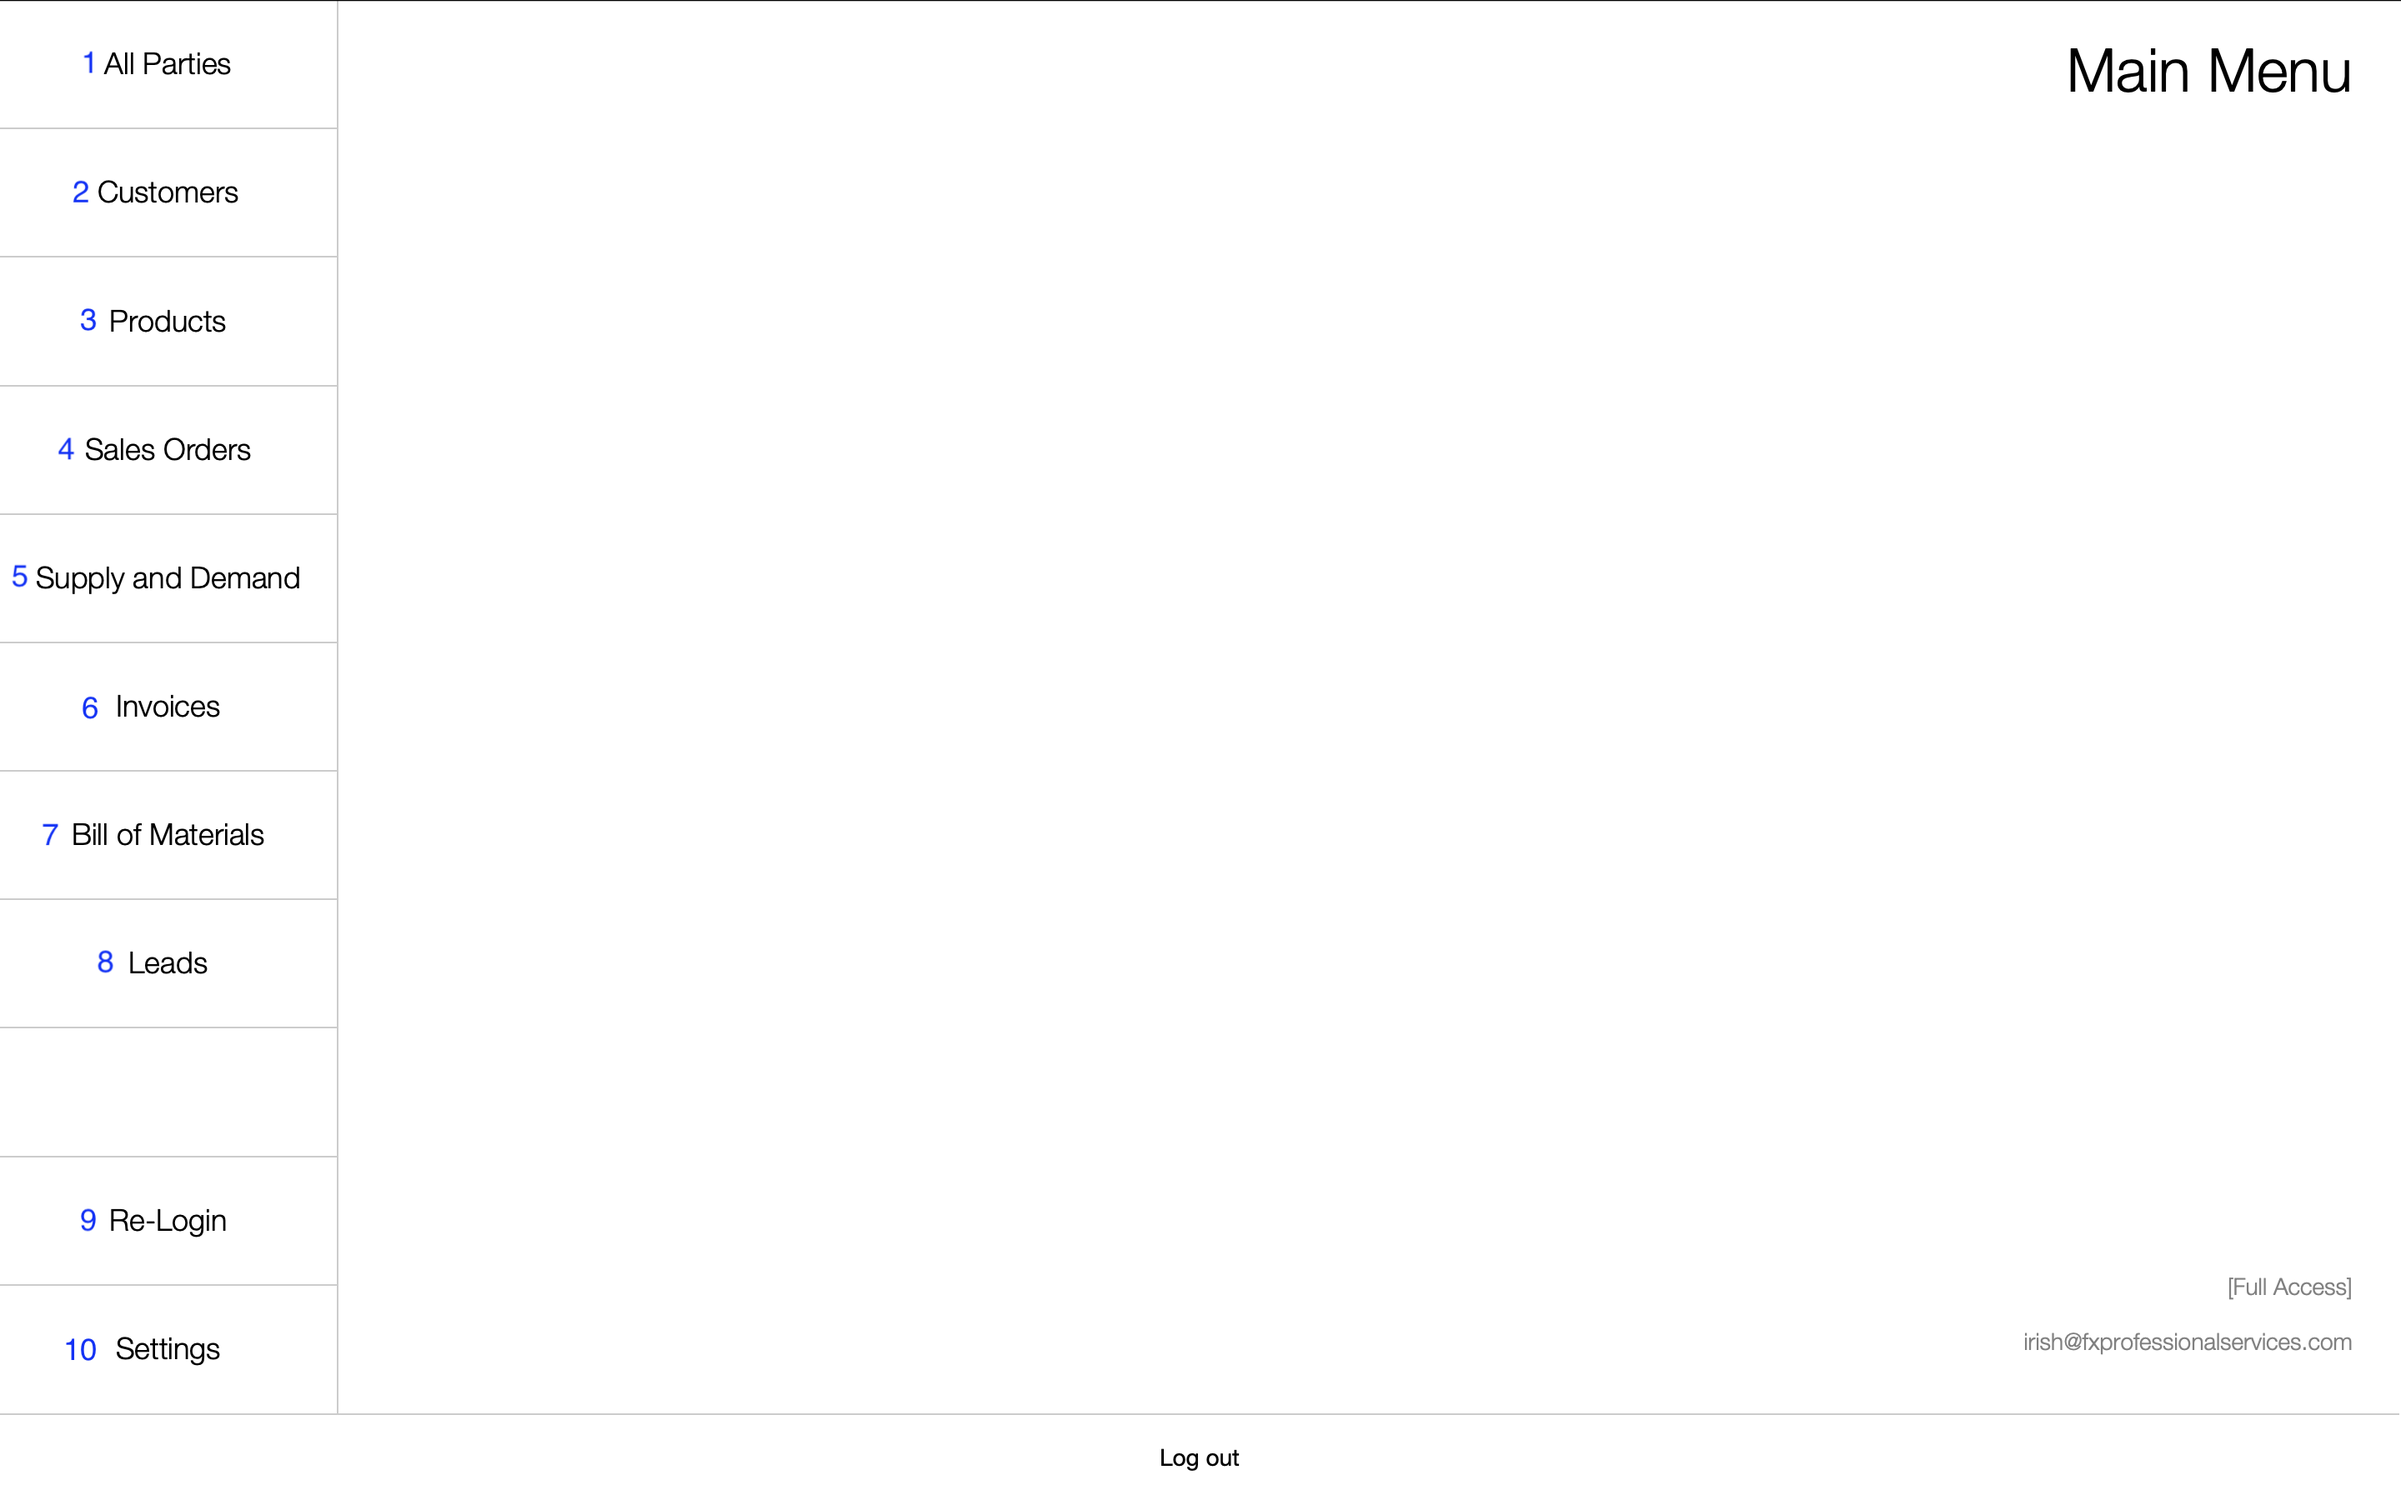
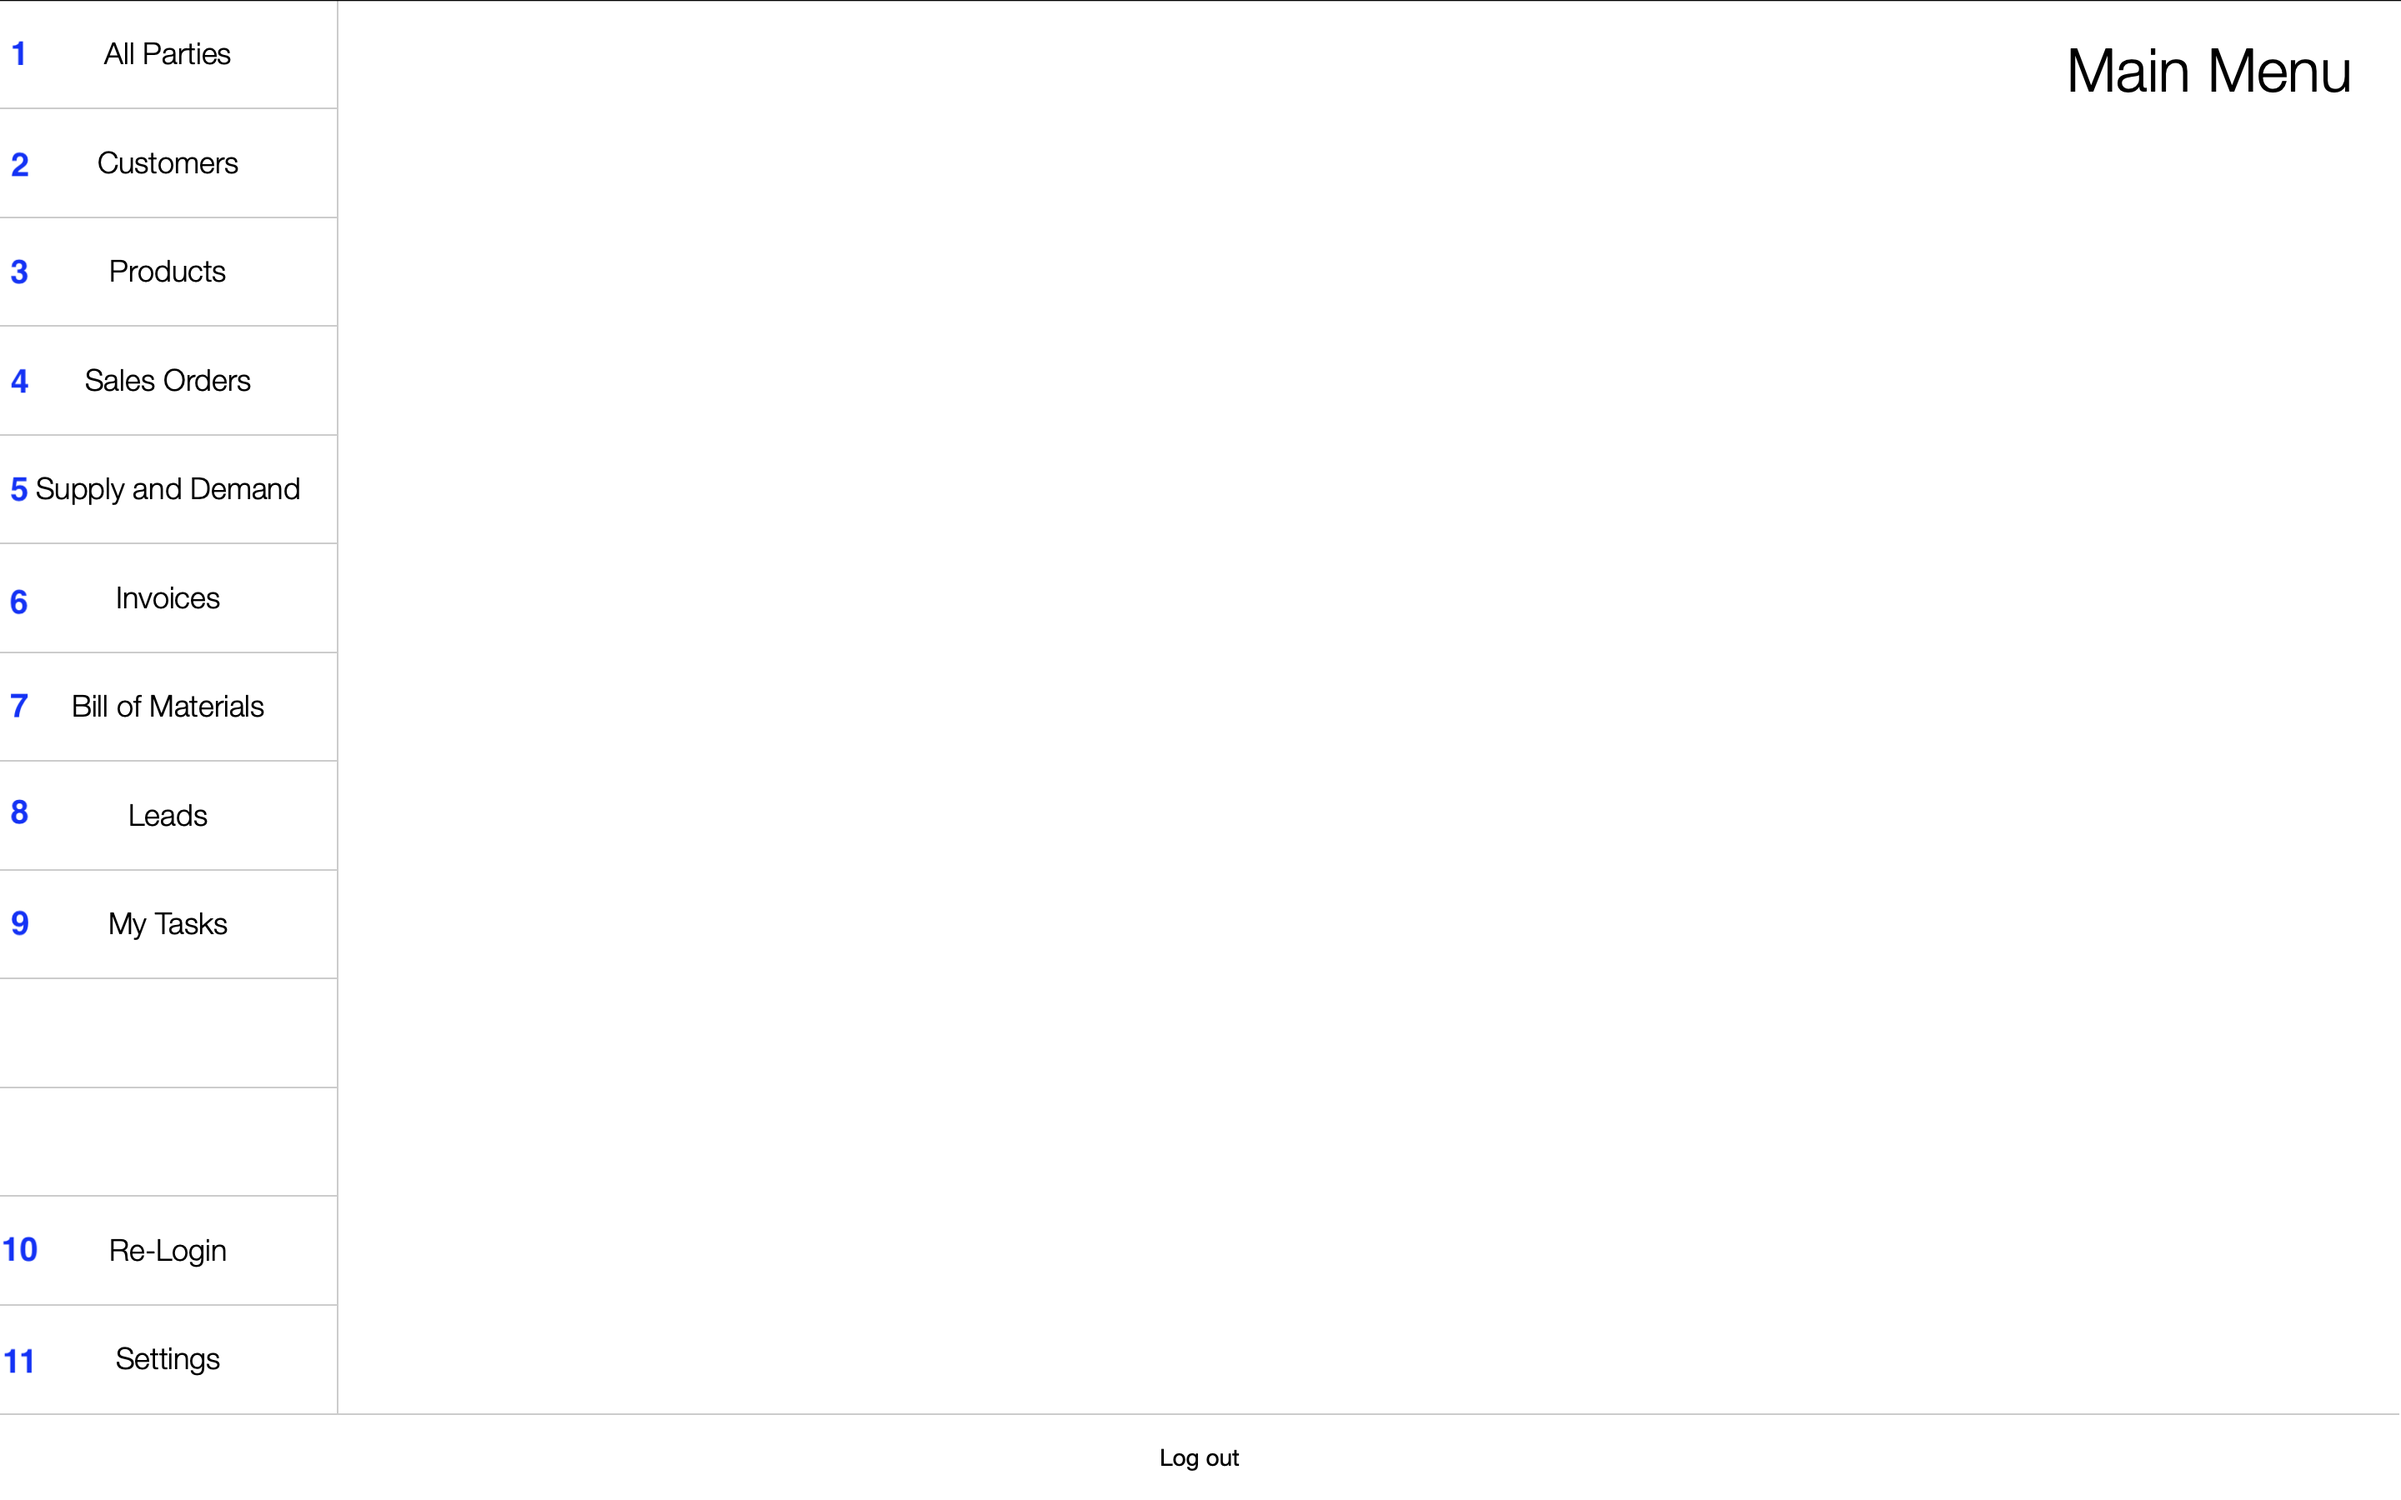
Added My Tasks button

diff --git a/Horizon User Guide/01 Start Using Horizon/Start Using Horizon.md b/Horizon User Guide/01 Start Using Horizon/Start Using Horizon.md
@@ -2,7 +2,6 @@
 
 Welcome to _Horizon_. *Horizon* is designed for tracking [demand](#demand) for all our [products](#products) and [items](#items), enabling us to forecast resource availability accurately. It's important to configure each item correctly before adding it to [sales orders](#4-sales-orders) to ensure precise demand tracking and effective resource planning.
 
-
 [Launch Horizon File](#launch-horizon-file)
 
 [Create a Horizon Account](#create-a-horizon-account)
@@ -117,7 +116,7 @@ ___
 
 The first thing you see when you're logged into Horizon is the _main menu_. Use the menus on the left side to choose commands and perform tasks in the application. 
 
-<img src="https://github.com/Fx-Professional-Services/HorizonDocs/blob/staging/Horizon%20User%20Guide/00%20Assets/09_main_menu.png" width="400" height="300">
+<img src="https://github.com/Fx-Professional-Services/HorizonDocs/blob/staging/Horizon%20User%20Guide/00%20Assets/09_main_menu.png" width="350" height="250">
 
 ### 1 **All Parties**
 Use this menu to navigate through customer, vendor, and employee records, and more.
@@ -172,12 +171,19 @@ A lead is a recorded instance of a potential customer expressing interest in a p
 Demand represents the quantity of an item required by a specific date or time. It is categorized by types such as purchase, build, or pick, which dictate how the demand should be fulfilled. Sales orders are a primary source of generating demand in this context.
 
 ---
-### 9 **Re-Login**  
+### **9 My Tasks**
+
+Select this menu to access your project management files.
+
+💡 **Tip**: To return to the Main Menu from Horizon Project Management, click the Main Menu navigation button.
+
+_______________
+### 10 **Re-Login**  
 Select this menu if you're asked to log in again due to inactivity or an expired session. This button ensures that only authorized users can access the system and facilitates switching between multiple accounts, maintaining security and convenience.
 
 ---
 
-### 10 **Settings**  
+### 11 **Settings**  
 Select this option to reset data and display the installed plug-ins when the app starts up.
 
 ## Reset Your Password
